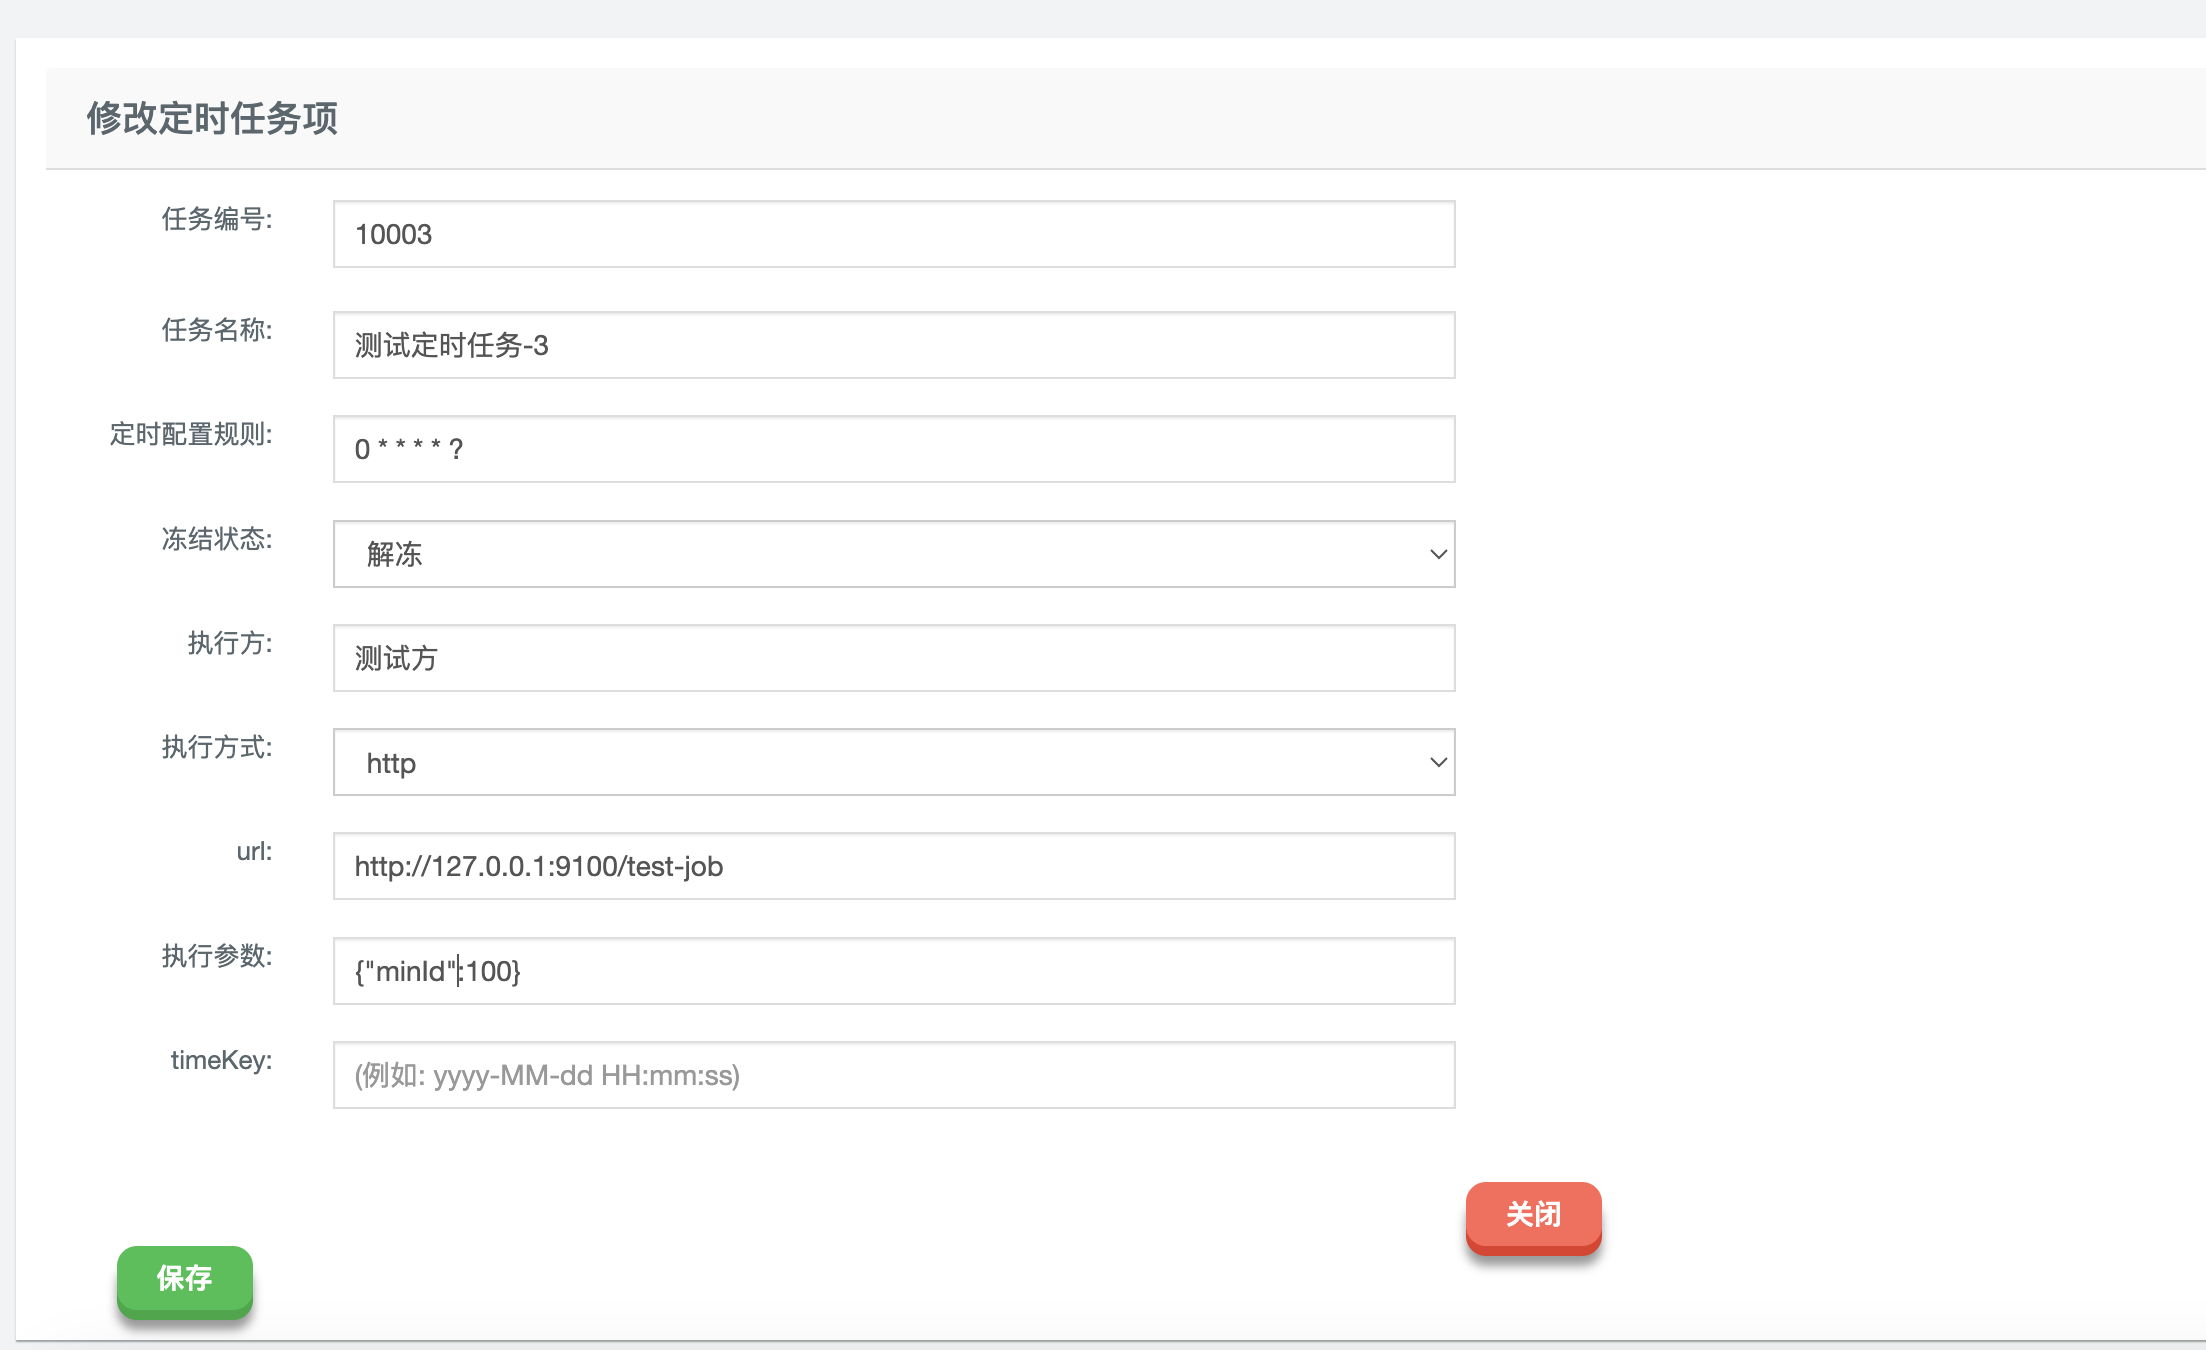
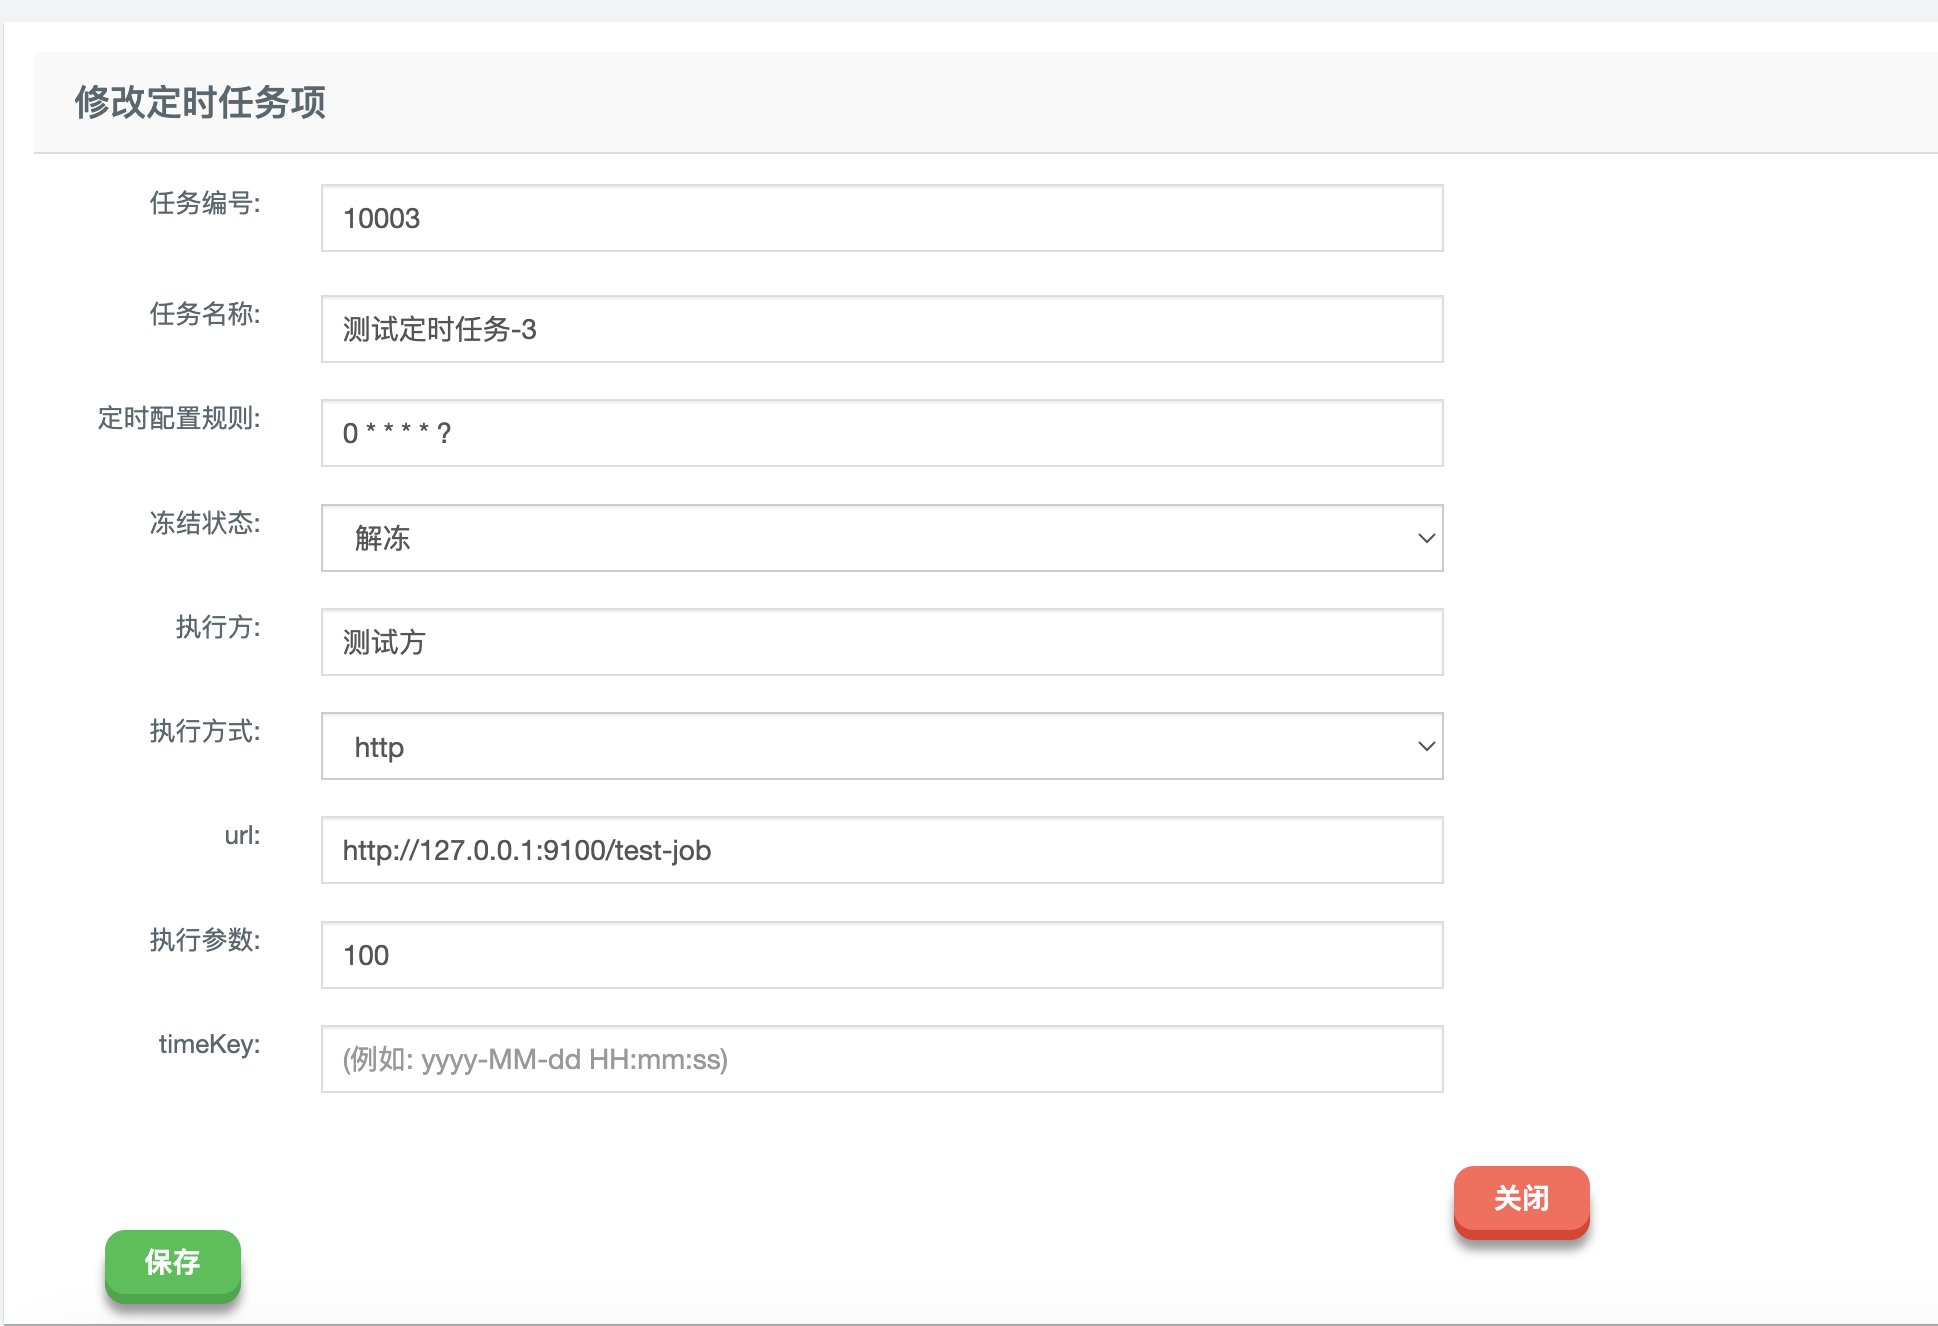
更新文档 & 图片

diff --git a/README.md b/README.md
@@ -66,7 +66,7 @@ METHOD:run[102]: 【quartz-client】: 定时任务初始化完毕
 
 ### Step3 服务端操作
 
-注册定时任务（这里test-job即为注解里定义的定时任务名称）
+注册定时任务（这里test-job即为注解里定义的定时任务名称，对于任务参数，如果是对象，使用对象的JSON表示即可）
 
 ![](assets/1.png)
 
